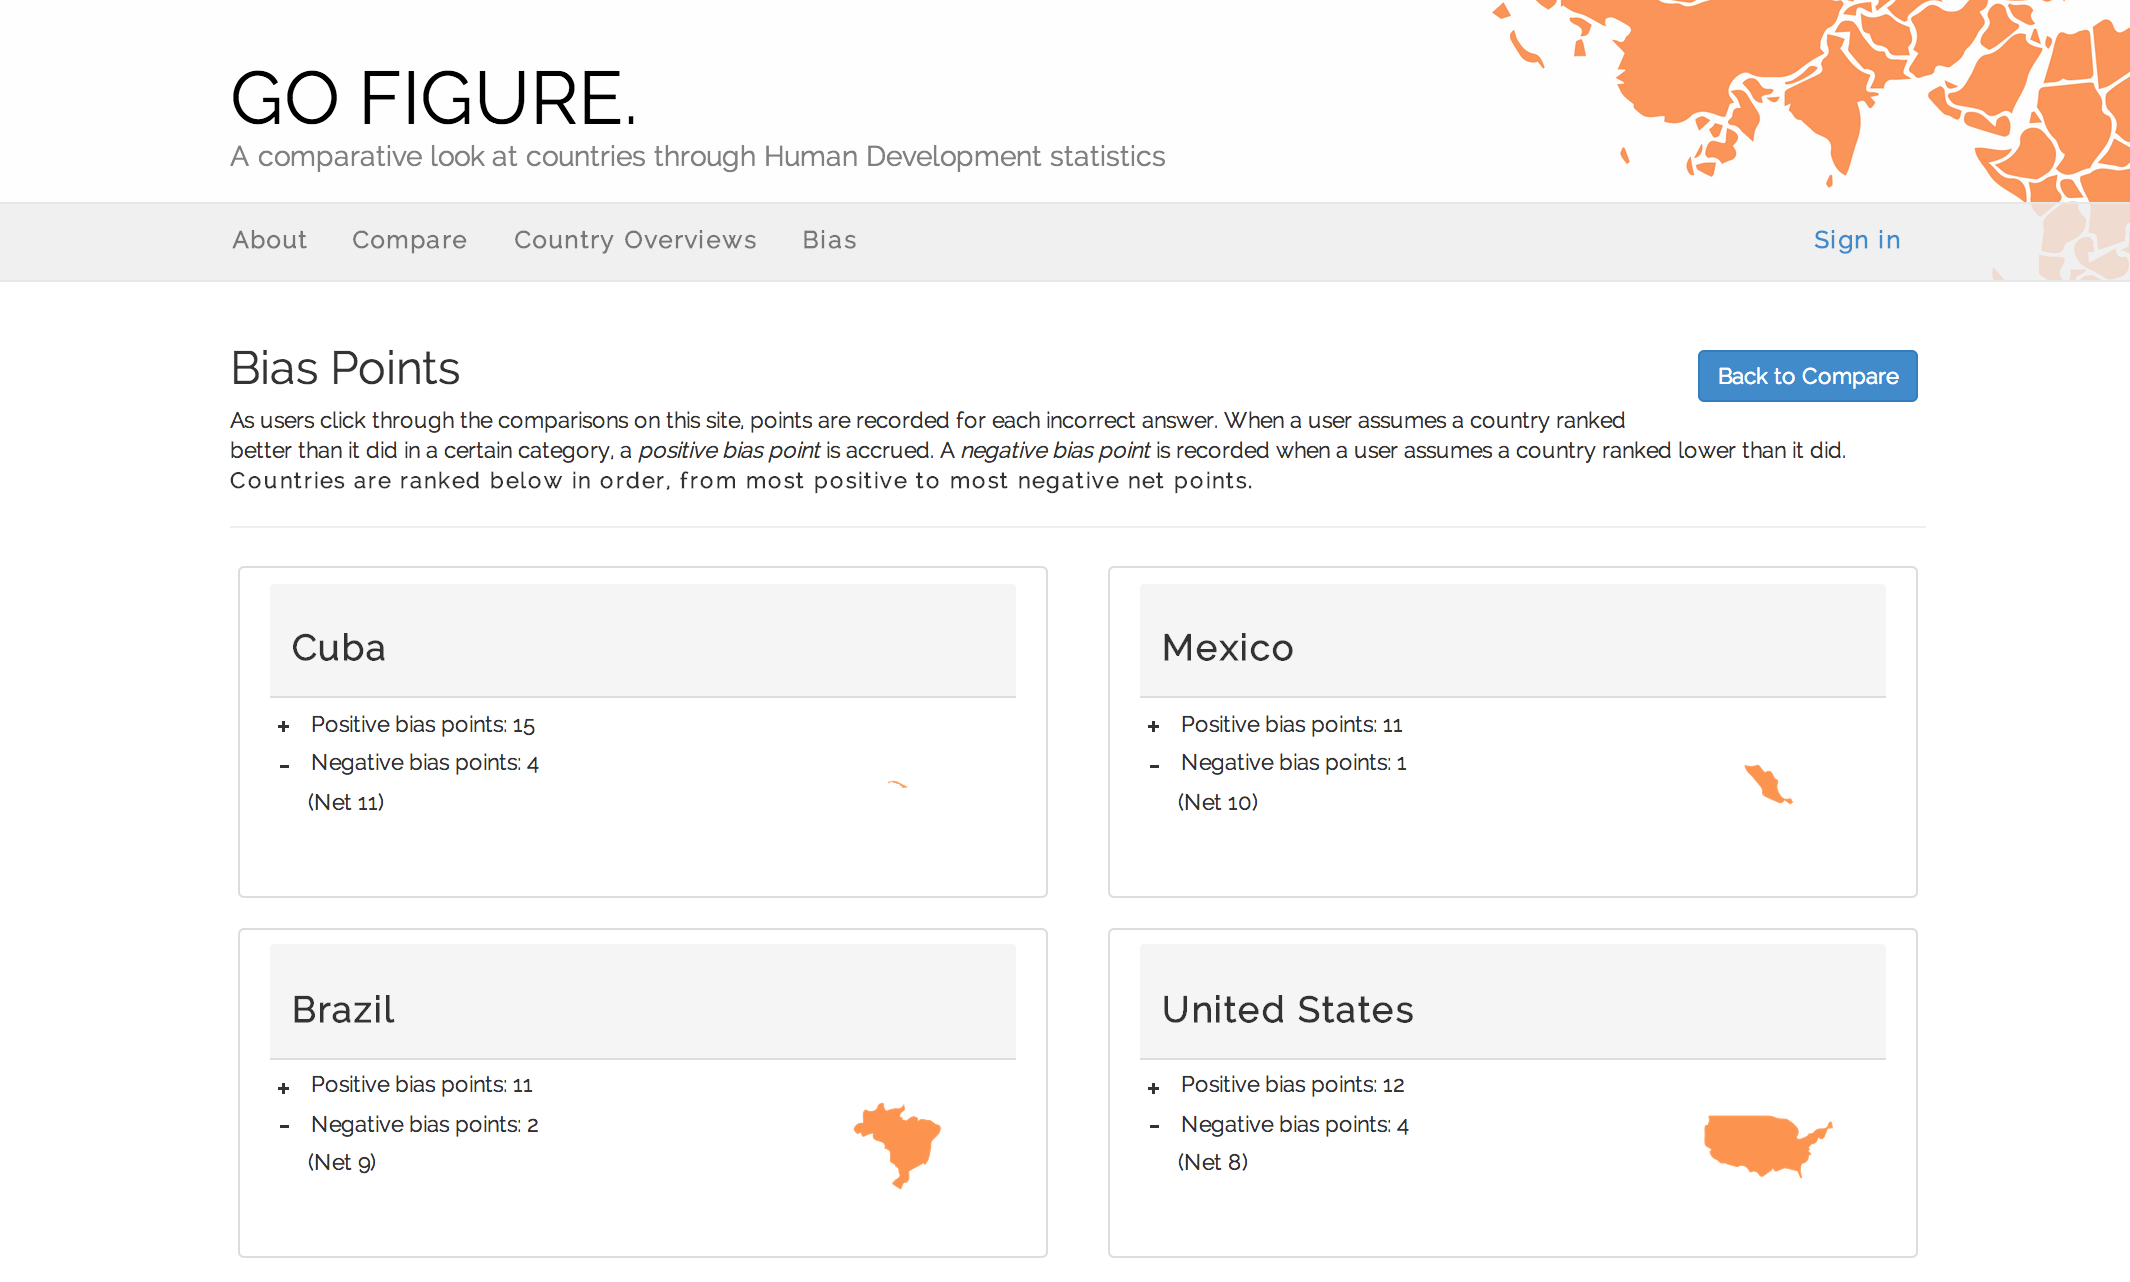
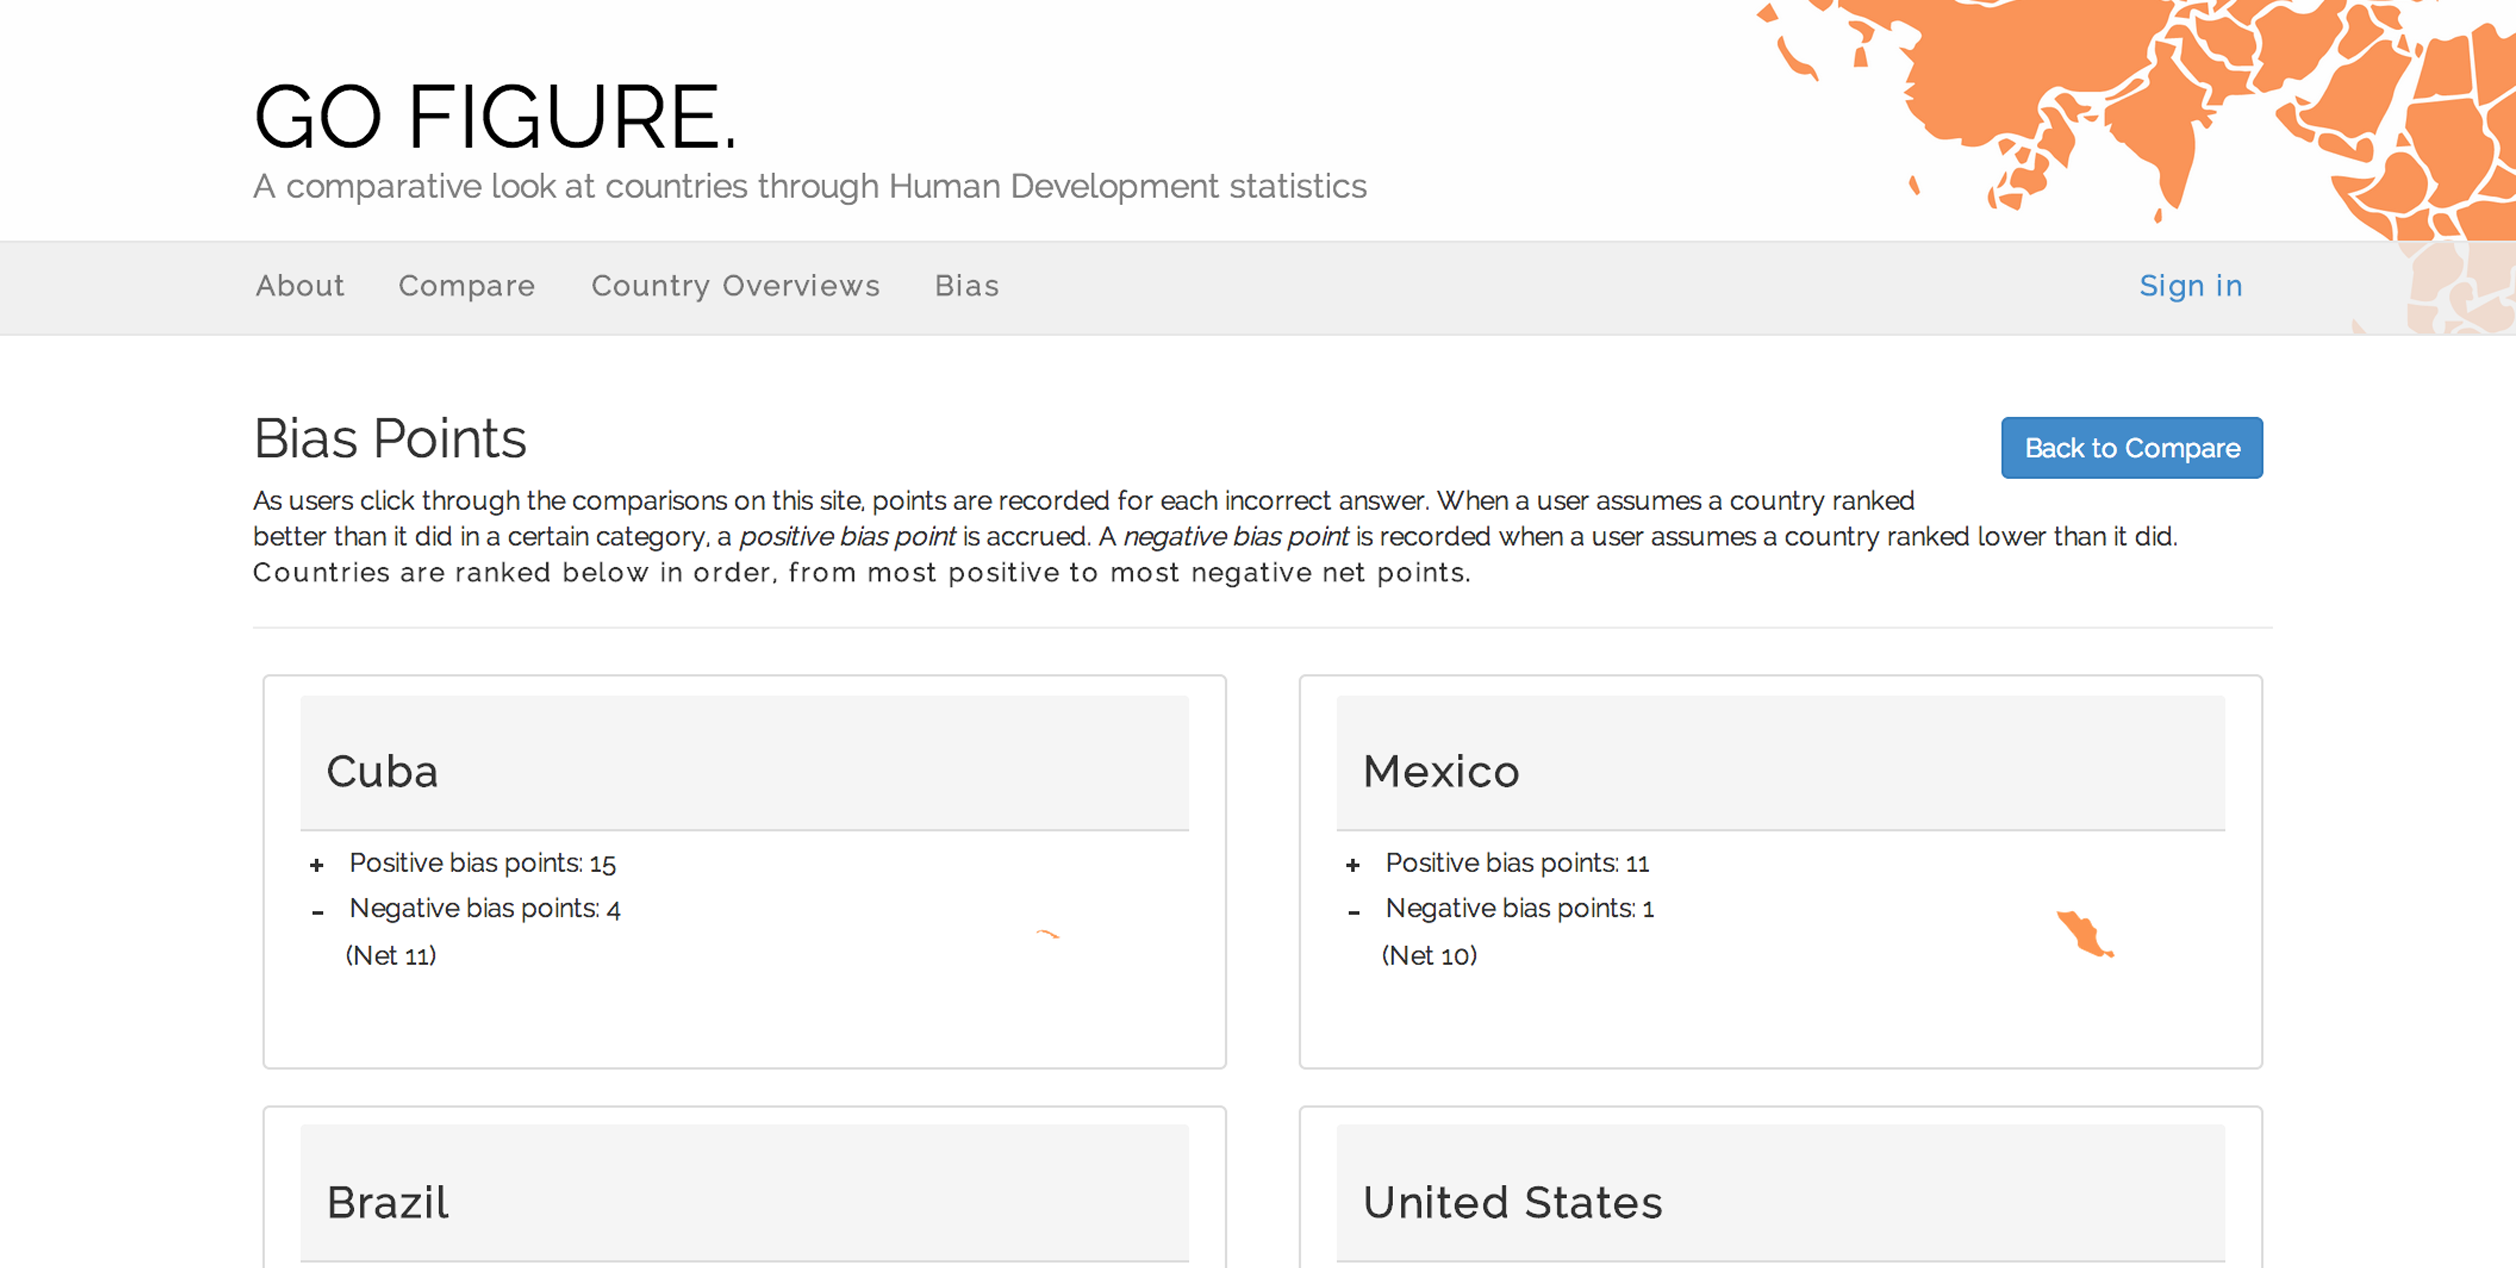
Removed unused arrow images. Cropped og image

diff --git a/app/assets/stylesheets/application.css.scss b/app/assets/stylesheets/application.css.scss
@@ -175,7 +175,7 @@ td:first-child {
 	width: 100%;
 	height: 600px;
 	background: image-url('map.svg') no-repeat;
-	background-size: 180%;
+	background-size: 150%;
 	background-position: 50% 30%;
 
 }
@@ -186,7 +186,7 @@ td:first-child {
 	position: absolute;
 	top: 150px;
 	border: 1px solid #e7e7e7;
-	padding: 50px 50px;
+	padding: 80px 50px;
 }
 
 .title {
